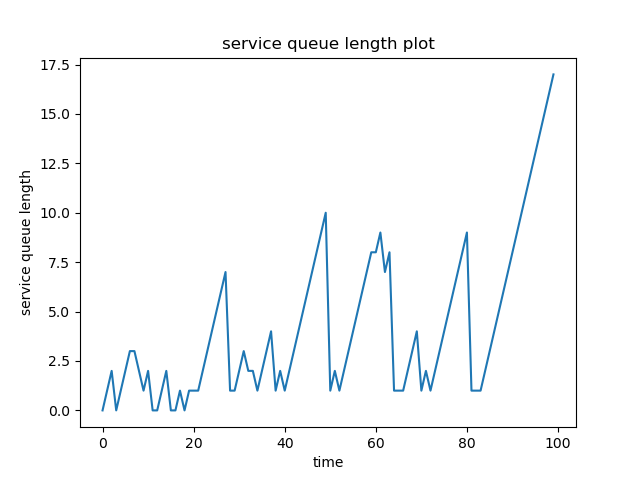
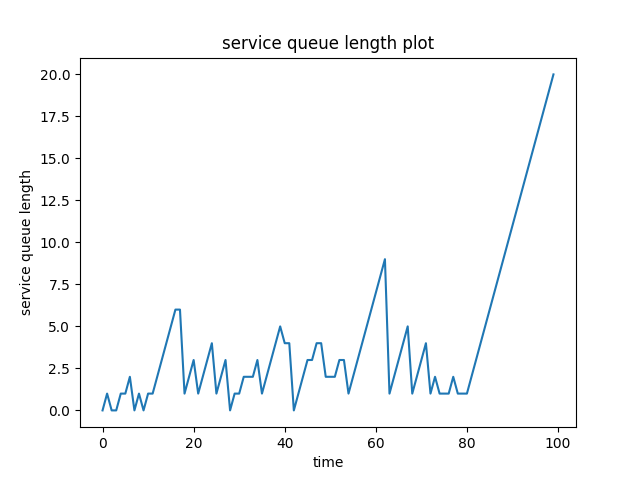
add queue length for each patient

diff --git a/simulator.py b/simulator.py
@@ -55,19 +55,20 @@ def check_patient_is_tired(patient, last_visit_end=None):
 
 def pop_tired_patients(corona_queue, normal_queue, last_visit_end):
     go = True
-    count=0
+    count = 0
     while go:
         go = False
 
         if len(corona_queue) > 0 and check_patient_is_tired(corona_queue[0], last_visit_end):
             corona_queue.popleft()
-            count+=1
+            count += 1
             go = True
         if len(normal_queue) > 0 and check_patient_is_tired(normal_queue[0], last_visit_end):
             normal_queue.popleft()
-            count+=1
+            count += 1
             go = True
     return count
+
 
 def flush_patients(visit_queues, room_queues_length,
                    visiting_patients, arrive_time=None):
@@ -96,7 +97,6 @@ def flush_patients(visit_queues, room_queues_length,
                 break
             if min_visit_end == -1e20:
                 min_visit_end = None
-
 
             visiting_patients[room_idx][min_doctor_idx] = None
 
@@ -202,7 +202,7 @@ if __name__ == '__main__':
 
     # stats arrays
     rooms_length_over_time = [[0 for x in range(len(Conf.DOCTORS))] for y in range(Conf.CLIENT_NO)]
-    #response_time = [0 for i in range(len(Conf.CLIENT_NO))]
+    # response_time = [0 for i in range(len(Conf.CLIENT_NO))]
     # 0: normal,  1: corona plus
     patient_type_over_time = [[0 for x in range(2)] for y in range(Conf.CLIENT_NO)]
 
@@ -215,7 +215,6 @@ if __name__ == '__main__':
     corona_len = len(corona_table)
     normal_len = len(normal_table)
 
-
     np_corona_table = corona_table.to_numpy()
     np_normal_table = normal_table.to_numpy()
     corona_as_t_idx = [corona_table.columns.get_loc(c) for c in ['arrival t', 'srv t', 'remaining_P']]
@@ -226,11 +225,9 @@ if __name__ == '__main__':
     del corona_table
     del normal_table
 
-
-
     corona_arrival, corona_srv_t, c_Q_t = np_corona_table[corona_idx, corona_as_t_idx]
     normal_arrival, normal_srv_t, n_Q_t = np_normal_table[normal_idx, normal_as_t_idx]
-    queue_arr = np.array([])
+    queue_arr = np.array([-1] * Conf.CLIENT_NO)
     _srv_beg_cache = np.array([])
     for i in range(100):
         print("#" * i + "-" * (99 - i), end="\r")
@@ -280,8 +277,7 @@ if __name__ == '__main__':
                 else:
                     ix += 1
             _srv_beg_cache = _srv_beg_cache[ix:]
-            queue_arr = np.append(queue_arr, _srv_beg_cache.shape[0])
-
+            queue_arr[corona_idx + normal_idx - 1] = _srv_beg_cache.shape[0]
 
             # saving room queue length for stats
             if patient_index != 0:
@@ -289,9 +285,9 @@ if __name__ == '__main__':
                     rooms_length_over_time[patient_index][k] = room_queues_length[k]
 
             if gone is False:
-                add_to_room_queue(np_normal_table, np_corona_table, p_index, p_has_corona, visit_queues, room_queues_length,
+                add_to_room_queue(np_normal_table, np_corona_table, p_index, p_has_corona, visit_queues,
+                                  room_queues_length,
                                   now, visiting_patients)
-
 
     print()
     flush_patients(visit_queues, room_queues_length,
@@ -301,16 +297,15 @@ if __name__ == '__main__':
     normal_table = pd.DataFrame(np_normal_table, columns=Conf.TABLE_COLUMNS)
     complete_table = normal_table.append(corona_table, ignore_index=True)
 
-
-
-    #mean_corona_plus_insystem_time = (corona_table['visit end'].sum() - corona_table[corona_table['visit end'].isna()]['arrival t'].sum())/len(corona_table['visit end'])
-    #mean_corona_minus_insystem_time = (normal_table['visit end'].sum() - normal_table['arrival t'].sum())/len(normal_table['arrival t'])
-    #print(len(corona_table[corona_table['visit end'].isna()]['arrival t']))
-    #mean_corona_plus_inqueue_time = (corona_table['init_patience'].sum() - corona_table['remaining_P'].sum())/len(corona_table['remaining_P'])
-    #mean_corona_minus_inqueue_time = (normal_table['init_patience'].sum() - normal_table['remaining_P'].sum())/len(normal_table['remaining_P'])
+    # mean_corona_plus_insystem_time = (corona_table['visit end'].sum() - corona_table[corona_table['visit end'].isna()]['arrival t'].sum())/len(corona_table['visit end'])
+    # mean_corona_minus_insystem_time = (normal_table['visit end'].sum() - normal_table['arrival t'].sum())/len(normal_table['arrival t'])
+    # print(len(corona_table[corona_table['visit end'].isna()]['arrival t']))
+    # mean_corona_plus_inqueue_time = (corona_table['init_patience'].sum() - corona_table['remaining_P'].sum())/len(corona_table['remaining_P'])
+    # mean_corona_minus_inqueue_time = (normal_table['init_patience'].sum() - normal_table['remaining_P'].sum())/len(normal_table['remaining_P'])
 
     del normal_table, corona_table
     complete_table = complete_table.sort_values(by=['arrival t'], ignore_index=True)
+    complete_table['queue_length'] = queue_arr
 
     # getting statistics
 
@@ -322,20 +317,17 @@ if __name__ == '__main__':
     ax.set(xlabel='time', ylabel='service queue length', title='service queue length plot')
     fig.savefig("plots/Qlen.png")
 
-
-
     statistics_columns = ['in_system_time', 'in_queue_time']
     stats = pd.DataFrame(index=list(range(0, Conf.CLIENT_NO)), columns=statistics_columns)
     stats.loc[:, 'in_system_time'] = 0
     stats.loc[:, 'in_queue_time'] = 0
-    #stats.loc[1, 'arrival t'] = 4
-    #print(stats)
+    # stats.loc[1, 'arrival t'] = 4
+    # print(stats)
     gone_counter = 0
-
 
     not_gone_table = complete_table[complete_table.remaining_P != 'gone']
     gone_table = complete_table[complete_table.remaining_P == 'gone']
-    #print(not_gone_table)
+    # print(not_gone_table)
 
     # in system time
     mean_corona_insystem_time = (gone_table[gone_table.corona == True]['init_patience'].sum() +
@@ -364,15 +356,13 @@ if __name__ == '__main__':
                                 not_gone_table[not_gone_table.corona != True]['visit t'].sum()) / (
                                    len(complete_table[complete_table.corona != True]))
 
-
-
-    overal_insystem_time = (len(complete_table[complete_table.corona == True])*mean_corona_insystem_time + \
-                           len(complete_table[complete_table.corona != True])*mean_normal_insystem_time)/\
+    overal_insystem_time = (len(complete_table[complete_table.corona == True]) * mean_corona_insystem_time + \
+                            len(complete_table[complete_table.corona != True]) * mean_normal_insystem_time) / \
                            (len(complete_table))
 
     overal_inqueue_time = (len(complete_table[complete_table.corona == True]) * mean_corona_inqueue_time + \
-                            len(complete_table[complete_table.corona != True]) * mean_normal_inqueue_time) / \
-                           (len(complete_table))
+                           len(complete_table[complete_table.corona != True]) * mean_normal_inqueue_time) / \
+                          (len(complete_table))
 
     print(mean_corona_insystem_time)
     print(mean_normal_insystem_time)
@@ -382,18 +372,13 @@ if __name__ == '__main__':
     # number of gone people
     gone_count = len(gone_table)
 
-
     print(rooms_length_over_time)
 
+    print(complete_table)
+    # print(complete_table[complete_table.corona != True]['remaining_P'])
 
-    #print(queue_arr)
-    #print(complete_table)
-    #print(complete_table[complete_table.corona != True]['remaining_P'])
-
-
-    #print(gone_table[gone_table.corona == True]['init_patience'])
-    #print((not_gone_table[not_gone_table.corona == True]['visit end'].mean() - not_gone_table[not_gone_table.corona == True]['arrival t'].mean()))
-
+    # print(gone_table[gone_table.corona == True]['init_patience'])
+    # print((not_gone_table[not_gone_table.corona == True]['visit end'].mean() - not_gone_table[not_gone_table.corona == True]['arrival t'].mean()))
 
     # for index, patient in complete_table.iterrows():
     #     # in system time calculation
@@ -407,12 +392,9 @@ if __name__ == '__main__':
     #     stats.loc[index, 'in_queue_time'] = patient['init_patience'] - patient['remaining_P']
 
     # calc mean in-system time
-    #mean_insystem_time = (complete_table['visit end'].sum() - complete_table['arrival t'].sum())/len(complete_table['arrival t'])
-    #mean_inqueue_time = (complete_table['init_patience'].sum() - complete_table['remaining_P'].sum())/len(complete_table['remaining_P'])
+    # mean_insystem_time = (complete_table['visit end'].sum() - complete_table['arrival t'].sum())/len(complete_table['arrival t'])
+    # mean_inqueue_time = (complete_table['init_patience'].sum() - complete_table['remaining_P'].sum())/len(complete_table['remaining_P'])
 
-
-
-    #print(type(complete_table.loc[2, 'remaining_P']))
-    #print(type(complete_table.loc[2, 'init_patience']))
-    #print(complete_table)
-
+    # print(type(complete_table.loc[2, 'remaining_P']))
+    # print(type(complete_table.loc[2, 'init_patience']))
+    # print(queue_arr)
